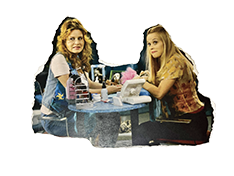
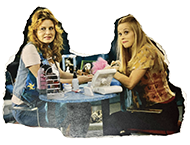
macbook air stickers position fixe

diff --git a/src/pages/PosterPage/PosterPage.js b/src/pages/PosterPage/PosterPage.js
@@ -1,5 +1,5 @@
 // hooks
-import { useRef, useState, useEffect } from "react";
+import { useRef, useState } from "react";
 import { Stage, Layer } from "react-konva";
 
 // components
@@ -82,49 +82,49 @@ const PosterPage = ({ posterImageRef }) => {
     });
   };
 
-  // ...
   const stickerProps = [
-    { src: sticker1, top: 136, left: 84 },
-    { src: sticker2, top: 130, left: 75 },
-    { src: sticker3, top: 148, left: 88 },
-    { src: sticker4, top: 156, left: 78, zIndex: 2 },
-    { src: sticker5, top: 156, left: 80, zIndex: 3 },
-    { src: sticker6, top: 149, left: 71 },
-    { src: sticker7, top: 1150, left: 870, zIndex: 3 },
-    { src: sticker8, top: 1200, left: 950, zIndex: 3 },
-    { src: sticker9, top: 1150, left: 820 },
-    { src: sticker10, top: 1240, left: 800, zIndex: 3 },
-    { src: sticker11, top: 1420, left: 1080 },
-    { src: sticker12, top: 1500, left: 1050 },
-    { src: sticker13, top: 1300, left: 940, zIndex: 1 },
-    { src: sticker14, top: 1460, left: 900 },
-    { src: sticker15, top: 1400, left: 860 },
-    { src: sticker16, top: 1450, left: 820 },
-    { src: sticker17, top: 1500, left: 820 },
-    { src: sticker18, top: 1560, left: 820 },
-    { src: sticker19, top: 1620, left: 820 },
-    { src: sticker20, top: 1600, left: 860 },
-    { src: sticker21, top: 1380, left: 170 },
-    { src: sticker22, top: 1350, left: -30 },
-    { src: sticker23, top: 1350, left: -10 },
-    { src: sticker24, top: 1590, left: 180 },
-    { src: sticker25, top: 1130, left: 20 },
-    { src: sticker26, top: 1040, left: 190 },
-    { src: sticker27, top: 940, left: 170 },
-    { src: sticker28, top: 1300, left: 100 },
-    { src: sticker29, top: 1410, left: 150 },
-    { src: sticker30, top: 1450, left: -10 },
-    { src: sticker31, top: 1620, left: 80 },
-    { src: sticker32, top: 1340, left: 270 },
-    { src: sticker33, top: 1020, left: 20 },
-    { src: sticker34, top: 1120, left: -10 },
-    { src: sticker35, top: 1260, left: 0 },
-    { src: sticker36, top: 1250, left: 220 },
-    { src: sticker37, top: 1320, left: 350 },
-    { src: sticker38, top: 1440, left: 130 },
-    { src: sticker39, top: 1080, left: 150 },
-    { src: sticker40, top: 1240, left: 290 },
-    { src: sticker41, top: 1420, left: 800 },
+    { src: sticker1, top: 146, left: 84 },
+    { src: sticker2, top: 140, left: 75 },
+    { src: sticker3, top: 158, left: 88 },
+    { src: sticker4, top: 166, left: 78, zIndex: 2 },
+    { src: sticker5, top: 166, left: 80, zIndex: 3 },
+    { src: sticker6, top: 159, left: 71 },
+    { src: sticker7, top: 169, left: 76, zIndex: 3 },
+    { src: sticker8, top: 172, left: 81, zIndex: 3 },
+    { src: sticker9, top: 169, left: 72 },
+    { src: sticker10, top: 179, left: 72, zIndex: 3 },
+    { src: sticker11, top: 199, left: 93 },
+    { src: sticker12, top: 212, left: 91 },
+    { src: sticker13, top: 187, left: 80, zIndex: 1 },
+    { src: sticker14, top: 206, left: 81 },
+    { src: sticker15, top: 197, left: 75 },
+    { src: sticker16, top: 199, left: 71 },
+    { src: sticker17, top: 210, left: 70 },
+    { src: sticker18, top: 220, left: 71 },
+    { src: sticker19, top: 228, left: 71 },
+    { src: sticker20, top: 225, left: 78 },
+    // left side
+    { src: sticker21, top: 188, left: 17 },
+    { src: sticker22, top: 192, left: 3, zIndex: 2 },
+    { src: sticker23, top: 202, left: 1, zIndex: 1 },
+    { src: sticker24, top: 223, left: 17 },
+    { src: sticker25, top: 163, left: 6, zIndex: 2 }, // two girls
+    { src: sticker26, top: 146, left: 19 },
+    { src: sticker27, top: 133, left: 17 },
+    { src: sticker28, top: 185, left: 6 },
+    { src: sticker29, top: 200, left: 14 },
+    { src: sticker30, top: 213, left: 2.5, zIndex: 3 }, // two diamonds
+    { src: sticker31, top: 227, left: 9 }, // "I OBJECT!"
+    { src: sticker32, top: 181, left: 22 }, 
+    { src: sticker33, top: 152, left: 4, zIndex: 1 }, // diamond heart
+    { src: sticker34, top: 164, left: 0 },
+    { src: sticker35, top: 178, left: 2 },
+    { src: sticker36, top: 176, left: 17 },
+    { src: sticker37, top: 182, left: 29 },
+    { src: sticker38, top: 186, left: 17 },
+    { src: sticker39, top: 162, left: 19 }, // heart "HAVARD"
+    { src: sticker40, top: 170, left: 23 },
+    { src: sticker41, top: 195, left: 71 },
   ];
 
   return (
@@ -135,6 +135,7 @@ const PosterPage = ({ posterImageRef }) => {
           src={props.src}
           top={props.top}
           left={props.left}
+          zIndex={props.zIndex}
           onDragStart={handleDragStart}
         />
       ))}

diff --git a/src/components/Sticker/Sticker.js b/src/components/Sticker/Sticker.js
@@ -30,7 +30,7 @@ const Sticker = ({ src, top, left, zIndex, onDragStart }) => {
       style={{
         top: `${top}%`,
         left: `${left}%`,
-        zIndex: `${zIndex}`,
+        zIndex: zIndex,
         position: "absolute",
       }}
     />

diff --git a/src/pages/ContentPage/ContentPage.module.css b/src/pages/ContentPage/ContentPage.module.css
@@ -95,7 +95,7 @@
   width: 80px;
   height: 100px;
   position: absolute;
-  top: 348%;
+  top: 349%;
   left: 62%;
   /* top: 2300px;
   left: 710px; */
